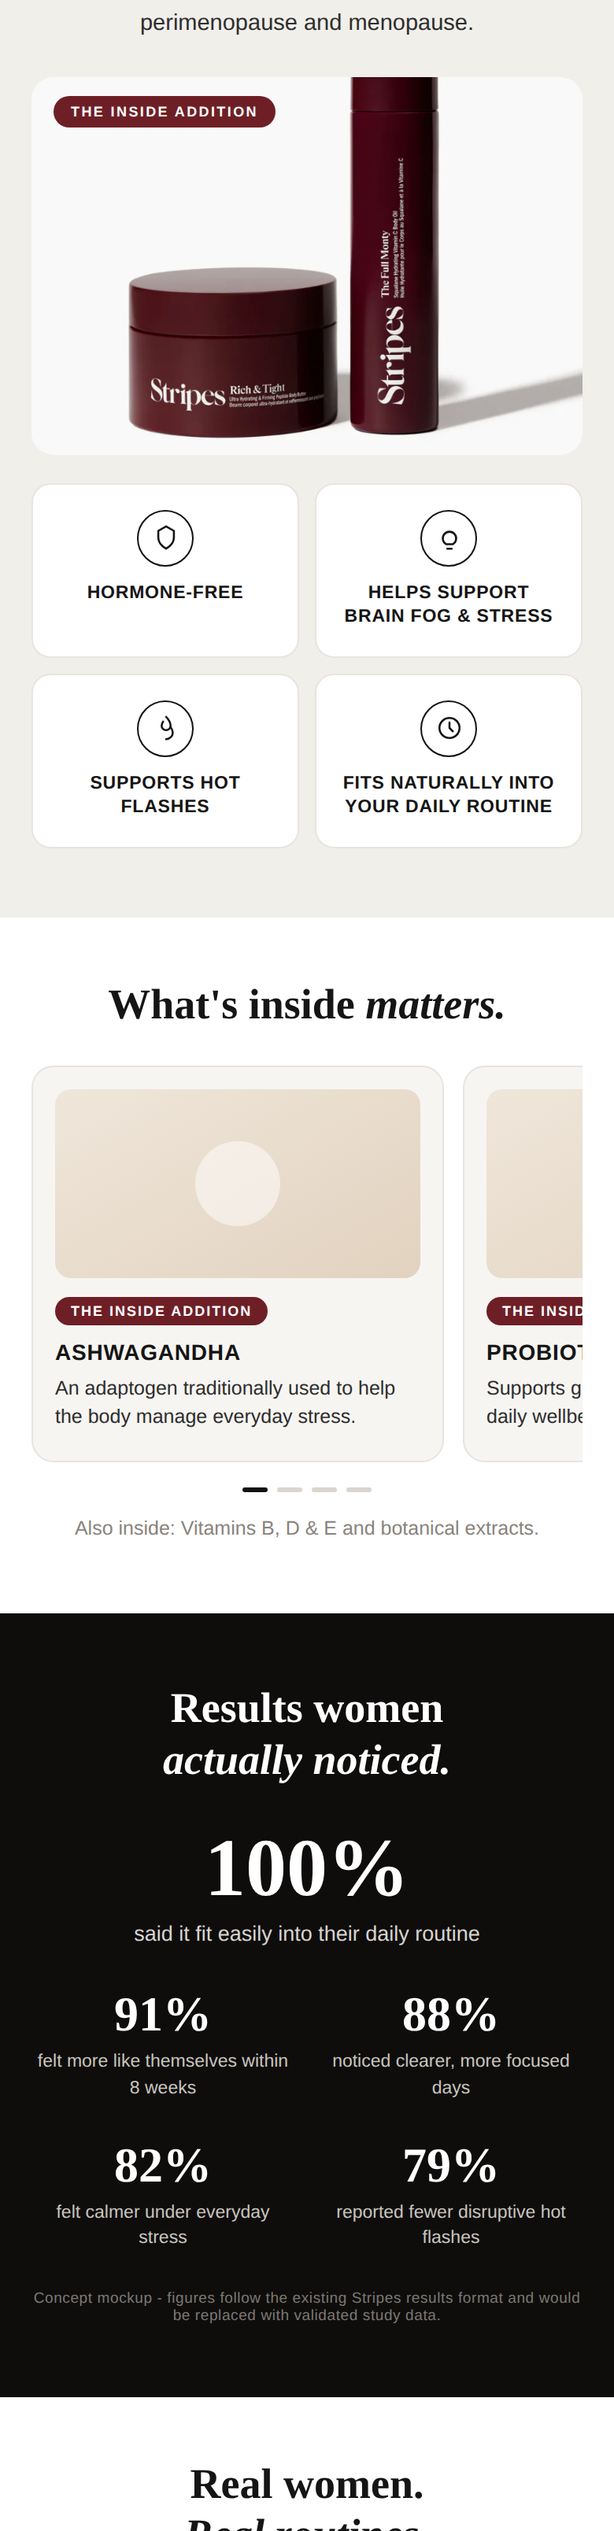
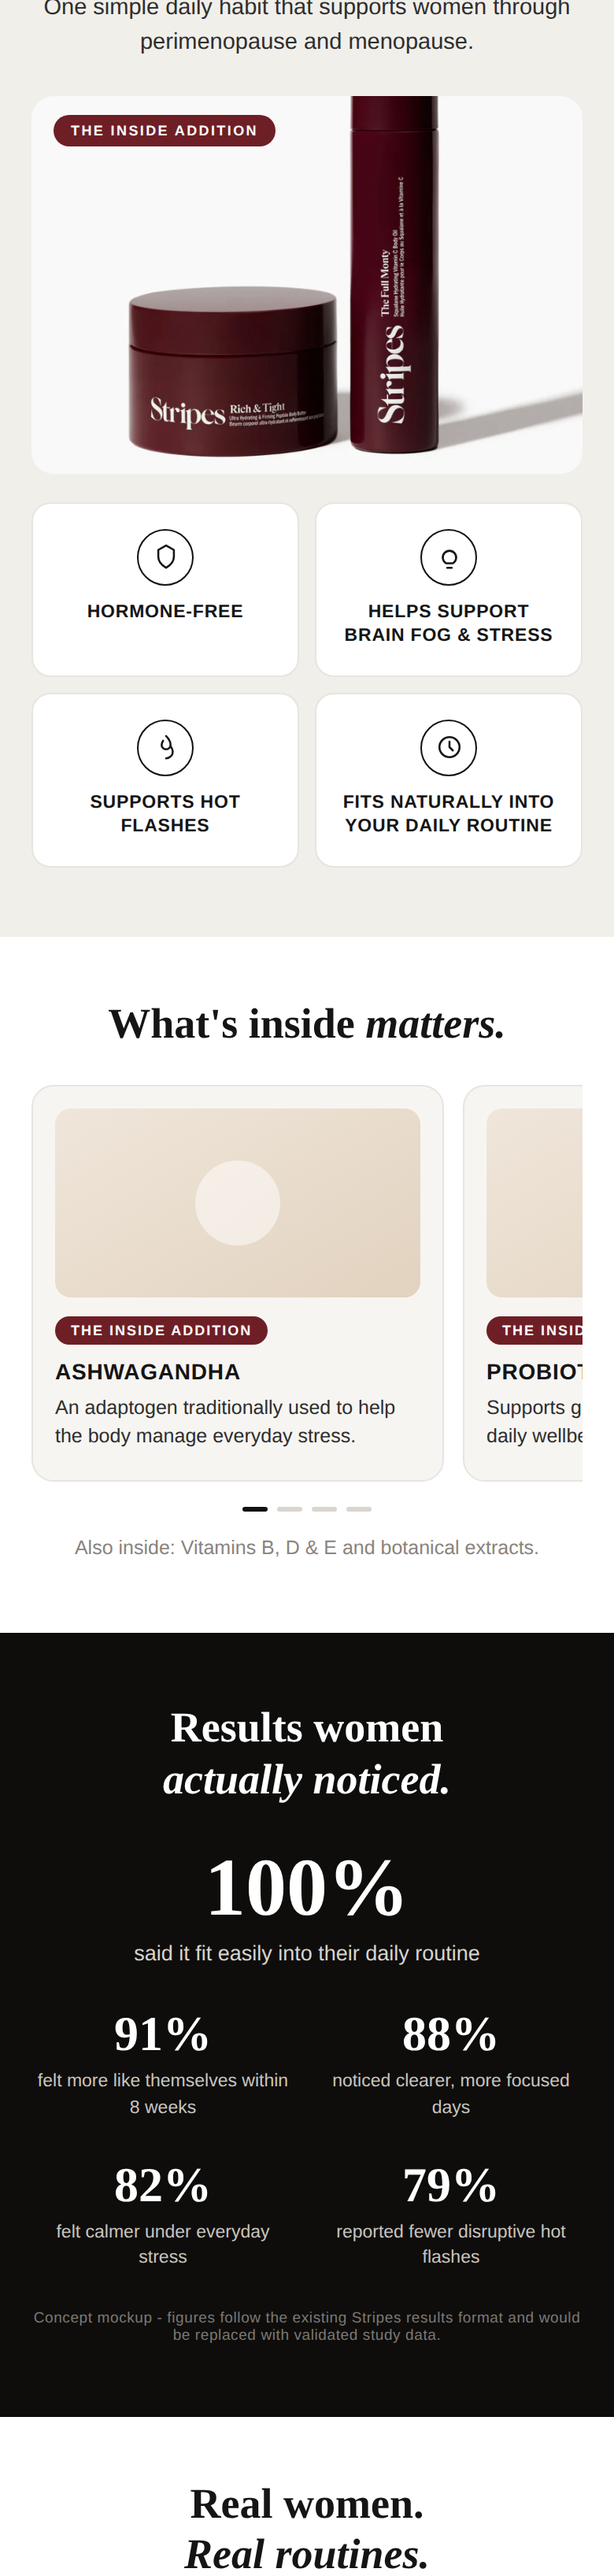
Landing page: real hero + founder photos, Build Your Daily Ritual CTA
Hero uses the kitchen/coffee shot (Inside Addition bottle already in frame,
dropped floating card); founder uses the 'earned it' portrait. CTA text
unified to 'Build Your Daily Ritual' (hero, founder, final); hero body to
second person; helper text 'Choose your plan below'; purchase heading
'Build Your Daily Ritual' with product name as subtitle.

Claude-Session: https://claude.ai/code/session_01GoAG3ySswQXo2H1hh5EwTk

diff --git a/diagrams/slides/p2-02-landing.html b/diagrams/slides/p2-02-landing.html
@@ -20,10 +20,8 @@
   .hicons svg{width:20px;height:20px;}
 
   /* ---------- hero ---------- */
-  .heroimg{height:400px;position:relative;overflow:hidden;}
-  .heroimg .ph{width:100%;height:100%;object-fit:cover;object-position:center 20%;}
-  .heroimg .prodcard{position:absolute;right:14px;bottom:14px;width:104px;background:#fff;border-radius:12px;box-shadow:0 10px 26px rgba(0,0,0,.22);padding:8px;}
-  .heroimg .prodcard img{width:100%;display:block;border-radius:8px;}
+  .heroimg{height:440px;position:relative;overflow:hidden;}
+  .heroimg .ph{width:100%;height:100%;object-fit:cover;object-position:center 24%;}
 
   .hero{background:var(--cream);padding:26px 20px 30px;}
   .hero h1{font-family:Georgia,'Times New Roman',serif;font-size:33px;line-height:1.14;font-weight:700;letter-spacing:.2px;}
@@ -107,10 +105,8 @@
 
   /* founder */
   .founder{background:var(--coral);color:#fff;padding:26px 20px 36px;}
-  .fimg{height:250px;border-radius:14px;background:linear-gradient(160deg,#F3D9CE,#DBB4A2);position:relative;overflow:hidden;}
-  .fimg::after{content:"";position:absolute;left:50%;top:34%;transform:translate(-50%,-50%);width:82px;height:82px;border-radius:50%;background:rgba(255,255,255,.4);}
-  .fimg::before{content:"";position:absolute;left:50%;bottom:-30px;transform:translateX(-50%);width:190px;height:150px;border-radius:50% 50% 0 0;background:rgba(255,255,255,.32);}
-  .fimg .ph{position:absolute;left:12px;top:12px;font-size:9px;font-weight:700;letter-spacing:1px;color:#a06b56;background:rgba(255,255,255,.8);border-radius:999px;padding:5px 10px;}
+  .fimg{height:300px;border-radius:14px;overflow:hidden;}
+  .fimg img{width:100%;height:100%;object-fit:cover;object-position:center 30%;}
   .founder h2{font-family:Georgia,serif;font-size:28px;margin-top:22px;}
   .founder h2 .it{font-style:italic;}
   .founder h3{font-family:Georgia,serif;font-size:17px;margin-top:12px;}
@@ -178,20 +174,19 @@
 
 <!-- 1 HERO -->
 <div class="heroimg">
-  <img class="ph" src="assets/hero-naomi.png" alt="">
-  <div class="prodcard"><img src="assets/product-duo.png" alt=""></div>
+  <img class="ph" src="assets/hero-kitchen.png" alt="">
 </div>
 <div class="hero">
   <h1>Your daily addition.<br><span class="it">Feel like yourself again.</span></h1>
-  <div class="sub">Instead of being just another menopause supplement, The Inside Addition becomes a simple daily habit that naturally fits into a woman's routine and supports her from the inside out.</div>
+  <div class="sub">Instead of being just another menopause supplement, The Inside Addition becomes a simple daily habit that naturally fits into your routine and supports you from the inside out.</div>
   <div class="div"></div>
   <div class="bullets">
     <div class="bl"><span class="pc">+</span><span class="t">Hormone-Free</span></div>
     <div class="bl"><span class="pc">+</span><span class="t">Daily Menopause Support</span></div>
     <div class="bl"><span class="pc">+</span><span class="t">Helps relieve stress, brain fog &amp; hot flashes</span></div>
   </div>
-  <div class="cta">START YOUR DAILY RITUAL</div>
-  <div class="ctanote">Scrolls to the purchase section below</div>
+  <div class="cta">BUILD YOUR DAILY RITUAL</div>
+  <div class="ctanote">Choose your plan below</div>
   <div class="assure">
     <span class="asx"><span class="st">&#9733;&#9733;&#9733;&#9733;&#9733;</span> <b>4.8/5</b> Customer Rating</span>
     <span class="asx">Free Shipping</span>
@@ -279,20 +274,20 @@
 
 <!-- 7 FOUNDER -->
 <div class="founder">
-  <div class="fimg"><span class="ph">NAOMI &middot; FOUNDER IMAGE</span></div>
+  <div class="fimg"><img src="assets/founder-naomi.png" alt=""></div>
   <h2>Why I created <span class="it">Stripes.</span></h2>
   <h3>Midlife is a lot more than just menopause.</h3>
   <p>My symptoms started at 36, and nobody had prepared me. When I learned it was perimenopause, I was angry - why didn't I know it could start so early?</p>
   <p>I created Stripes because we deserve support, solutions, and the space to figure it all out.</p>
   <div class="sig">Naomi</div>
-  <div class="cta">START YOUR DAILY RITUAL</div>
+  <div class="cta">BUILD YOUR DAILY RITUAL</div>
 </div>
 
 <!-- 8 PURCHASE -->
 <div class="buy">
   <div class="buyshot"><img src="assets/product-duo.png" alt=""></div>
-  <h2>The Inside Addition</h2>
-  <div class="subred">Daily menopause support &middot; 60 capsules</div>
+  <h2>Build Your Daily Ritual</h2>
+  <div class="subred">The Inside Addition &middot; Daily menopause support &middot; 60 capsules</div>
   <div class="rate"><span class="st">&#9733;&#9733;&#9733;&#9733;&#9733;</span><span class="rc">4.8/5</span></div>
   <div class="plan">Select Plan: <span class="it">Subscribe to feel the difference with consistent use.</span></div>
 
@@ -340,7 +335,7 @@
   <div class="frow"><span class="q">Is this only for menopause?</span><span class="chev">&#9660;</span></div>
   <div class="frow"><span class="q">Can I take it with other supplements?</span><span class="chev">&#9660;</span></div>
   <div class="frow"><span class="q">What if it doesn't work for me?</span><span class="chev">&#9660;</span></div>
-  <div class="cta">START YOUR DAILY RITUAL</div>
+  <div class="cta">BUILD YOUR DAILY RITUAL</div>
 </div>
 
 <div class="foot">
